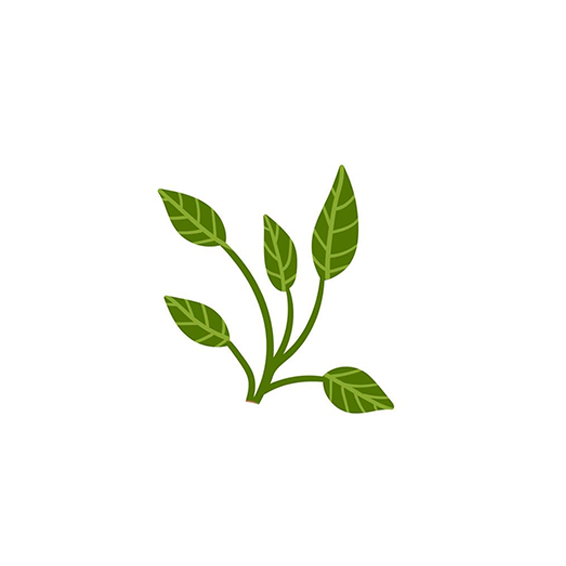
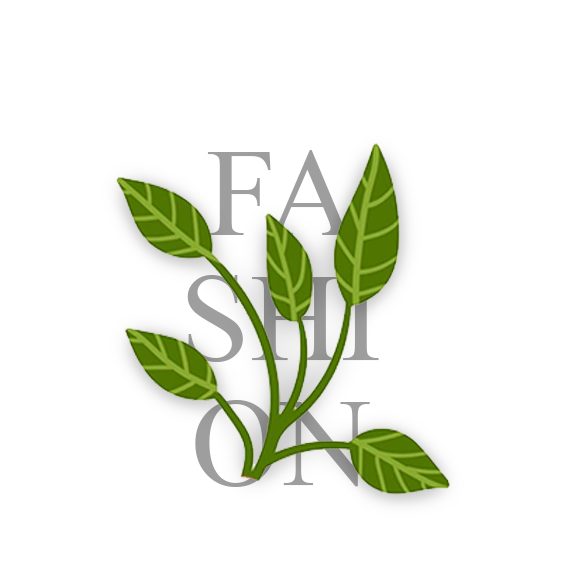
updated

Changed region(s): [[0.2102, 0.2403, 0.811, 0.9011]]

diff --git a/style.css b/style.css
@@ -1,0 +1,87 @@
+@import url("https://fonts.googleapis.com/css2?family=Poppins:ital,wght@0,100;0,200;0,300;0,400;0,500;0,600;0,700;0,800;0,900;1,100;1,200;1,300;1,400;1,500;1,600;1,700;1,800;1,900&family=Tenor+Sans&display=swap");
+
+* {
+  margin: 0;
+  padding: 0;
+  box-sizing: border-box;
+  font-family: "Tenor Sans", sans-serif;
+  text-decoration: none;
+  list-style: none;
+}
+html,
+body {
+  background: #fff;
+}
+nav {
+  width: 100%;
+  height: 100px;
+  display: flex;
+  justify-content: space-between;
+  position: absolute;
+}
+.logo a {
+  color: #507501;
+  position: relative;
+  top: 50%;
+  left: 50%;
+  font-size: 17px;
+  font-weight: 500;
+}
+ul {
+  display: flex;
+  position: relative;
+  top: 20%;
+  right: 6%;
+}
+ul li {
+  padding: 30px;
+  text-transform: uppercase;
+  color: #507501;
+  font-weight: 500;
+}
+ul li:hover {
+  color: rgb(1, 70, 1);
+  cursor: pointer;
+  transition: all 0.6s ease-in;
+}
+section {
+  display: flex;
+  justify-content: space-between;
+  position: absolute;
+}
+img {
+  width: 650px;
+  position: relative;
+  bottom: 5%;
+}
+.main-text {
+  position: relative;
+  margin-top: 180px;
+}
+h1 {
+  font-size: 50px;
+  color: #507501;
+
+  font-weight: 400;
+}
+p {
+  font-size: 18px;
+  width: 80%;
+  margin-top: 50px;
+  color: rgb(0, 62, 0);
+}
+button {
+  background-color: #507501;
+  color: #fff;
+  margin-top: 40px;
+  padding: 8px 35px;
+  border-radius: 30px;
+  font-weight: 600;
+}
+button:hover {
+  background: transparent;
+  border: 2px solid #507501;
+  color: #507501;
+  transition: all 0.6s ease;
+  text-align: center;
+}

diff --git a/index.html b/index.html
@@ -1,0 +1,40 @@
+<!DOCTYPE html>
+<html lang="en">
+  <head>
+    <meta charset="UTF-8" />
+    <meta name="viewport" content="width=device-width, initial-scale=1.0" />
+    <link rel="stylesheet" href="style.css" />
+    <title>Landing Page part-9</title>
+  </head>
+  <body>
+    <nav>
+      <div class="logo">
+        <a href="#">Really Great Site</a>
+      </div>
+      <ul>
+        <li>Home</li>
+        <li>About</li>
+        <li>Shop</li>
+        <li>Blog</li>
+        <li>Contact</li>
+      </ul>
+    </nav>
+    <!--nav complete-->
+
+    <section>
+      <div>
+        <img src="images/leaf.png" alt="" />
+      </div>
+      <div class="main-text">
+        <h1>ORGANIC FASHION</h1>
+        <p>
+          Lorem ipsum dolor sit amet, consectetur adipisicing elit. Officiis
+          perferendis quae obcaecati expedita in porro fugit nam, saepe
+          cupiditate exercitationem consequuntur voluptas similique iste cumque
+          quam. Possimus pariatur harum cumque?
+        </p>
+        <button>SHOP NOW</button>
+      </div>
+    </section>
+  </body>
+</html>
